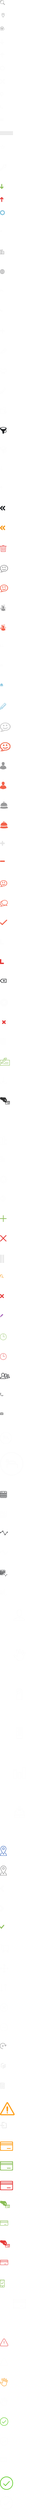
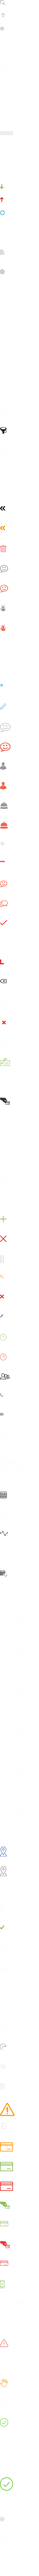
CICO-11893 - Card searcha and autocomplete results style update

diff --git a/stylesheets/less/app/05-A_components.less b/stylesheets/less/app/05-A_components.less
@@ -1297,79 +1297,87 @@
                         }
                     }
 
-                    .data {
-                        margin-right: 40px;
-                        .calc-width(100, 145);
-
-                        h2 {
-                            line-height: 50px; 
-                            vertical-align: middle; 
-                        }
-                    }
-
-                    .status { 
-                        margin-top: 10px;
+                    .rate {
+                        font-size: 20px;
+                        font-weight: 600;
+                        margin-right: 20px;
+                        .nowrap();
                         .pull-left;
-                        .hide-text;
-                        .square(30px);
-
-                        &.guest { background: @gcard @gcardTexture; }
-                        &.company { background: @ccard @ccardTexture; }
-                        &.travel-agent { background: @tacard @tacardTexture; }
+                        
+                        .label { font-weight: 400; }
                     }
 
-                    &.card-result {
-                        .data { 
-                            margin-right: 0;
-                            .calc-width(100, 70);
+                    .icon-contracts {
+                        color: @grey3;
+                        text-transform: uppercase;
+                        font-size: 13px;
+                        line-height: 20px;
+                        padding-left: 20px;
+                        width: 150px;
+                        .pull-right;
+                    }
+                }
 
-                            .info {
-                                margin-bottom: 10px;
-                                .float;
+                &.all-cards {
+                    position: relative;
 
-                                h2 {
-                                    line-height: 1em;
-                                    margin-right: 40px;
-                                    .pull-left;
-                                }
+                    .data {
+                        margin-right: 20px;
+                        .calc-width(50, 130);
 
-                                .rate { 
-                                    font-size: 24px;
-                                    line-height: 1em;
-                                    font-weight: 600;
-                                    .pull-left;
-                                    
-                                    .label { 
-                                        display: inline-block;
-                                        font-weight: 14px;
-                                        line-height: 24px;
-                                        margin: 0 10px 0 0;
-                                        font-weight: 400;
-                                    }
+                        h2 { line-height: 50px; }
+                    }
 
-                                }
-                            }
+                    .rate {
+                        line-height: 50px;
+                        .calc-width(50, 130);
+                    }
 
-                            .confirmation,
-                            .icons {
-                                display: inline;
-                                line-height: 20px;
-                                height: 20px;
-                                overflow: hidden;
+                    .icon-contracts { margin-top: 15px; }
+                }
+
+                &.card-result {
+                    .data { 
+                        .calc-width(100, 70);
+
+                        .info {
+                            margin-bottom: 10px;
+                            .float;
+
+                            h2 {
+                                line-height: 30px;
                                 margin-right: 20px;
-
-                                &:last-child { margin-right: 0; }
+                                .calc-width(50, 95);
+                                .pull-left;
                             }
 
-                            .icons {
-                                color: @grey3;
-                                padding-left: 20px;
+                            .rate {
+                                line-height: 30px;
+                                .calc-width(50, 95);
                             }
 
-                            .confirmation { 
-                                color: @textColor;
-                                font-weight: 600; 
-                            }
+                            .icon-contracts { margin-top: 5px; }
+                        }
+
+                        .confirmation,
+                        .icons {
+                            display: inline;
+                            line-height: 20px;
+                            height: 20px;
+                            overflow: hidden;
+                        }
+
+                        .icons {
+                            color: @grey3;
+                            padding-left: 20px;
+                            margin-right: 20px;
+
+                            &:last-child { margin-right: 0; }
+                        }
+
+                        .confirmation { 
+                            font-weight: 600;
+                            margin-right: 20px;
                         }
                     }
                 }
@@ -1778,7 +1786,7 @@
             position: absolute;
             top: 60px;
             left: 0;
-            z-index: 999;
+            z-index: 2040;
             .size(90px, 100%);
             .transition(height, .2s, cubic-bezier(.10, .10, .25, .90));
             .show;

diff --git a/stylesheets/less/app/05-C_plugins.less b/stylesheets/less/app/05-C_plugins.less
@@ -186,58 +186,8 @@
         }
         
         &.find-cards {
-            width: auto !important;
-        
-            li {
-                a {
-                    position: relative;
-                    padding: 10px 20px 10px 50px;
-                    font-size: 18px;
-                    line-height: 30px;
-                    font-weight: 600;
-                    color: @textColor;
-                    .show;
-
-                    .highlight { color: @logoPrimary; }
-
-                    img,
-					.icons,
-					.group-info {
-						position: absolute;
-						top: 10px;
-						left: 10px;
-						.square(30px);
-						#border-radius > .rounded();
-					}
-
-					.icons {
-						&.icon-company { 
-							background-position: 4px -3458px;
-							background-color: @ccard; 
-						}
-
-						&.icon-travel-agent { 
-							background-position: 4px -3576px;
-							background-color: @tacard; 
-						}
-					}
-
-					.group-info {
-						font-size: 18px;
-						line-height: 30px;
-						text-transform: uppercase;
-						font-weight: 600;
-						text-align: center;
-						color: @grey3;
-						width: 30px;
-						background-color: @grey1;
-					}
-                }
-            }
-        }
-
-        &.find-diary-card {
-			width: 420px;
+        	width: auto;
+			max-width: 420px !important;
 
 			li {
 				a {
@@ -251,25 +201,35 @@
 
 					.highlight { color: @logoPrimary; }
 
-					img,
-					.icons {
+					.icons,
+					.group-info,
+					img {
 						position: absolute;
 						top: 10px;
 						left: 10px;
 						.square(30px);
 						#border-radius > .rounded();
-					}
 
-					.icons {
 						&.icon-company { 
-							background-position: 4px -3458px;
+							background-position: 7px -3514px;
 							background-color: @ccard; 
 						}
 
 						&.icon-travel-agent { 
-							background-position: 4px -3576px;
+							background-position: 6px -3634px;
 							background-color: @tacard; 
 						}
+					}
+
+					.group-info {
+						font-size: 18px;
+						line-height: 30px;
+						text-transform: uppercase;
+						font-weight: 600;
+						text-align: center;
+						color: @grey3;
+						width: 30px;
+						background-color: @gcard;
 					}
 				}
 			}
@@ -314,6 +274,24 @@
 
 					&:last-child { margin-bottom: 0; }
 				}
+
+				&.wide { 
+					width: 480px; 
+
+					.actions {
+						text-align: center;
+						padding-top: 19px;
+						border-top: 1px solid rgba(0,0,0,.1);
+
+						.button {
+							display: inline-block;
+							width: auto;
+							margin: 0 10px 0 0;
+						}
+					}
+				}
+
+				&.medium { width: 380px; }
 			}
 
 			/* Confirmation modal window ***/

diff --git a/rover/partials/diary/rvDiary.html b/rover/partials/diary/rvDiary.html
@@ -100,7 +100,7 @@
                         Search
                     </button>
                     <span role="status" aria-live="polite" class="ui-helper-hidden-accessible"></span>
-                    <input auto-complete="" auto-options="autocompleteOptions" name="diary-corporate-query" id="diary-corporate-query" class="query ui-autocomplete-input" placeholder="Type Company or Travel Agent Name" type="search" ng-model="corporateSearchText" ul-class="find-diary-card" focus-me="focusOnCorporateSearchText">
+                    <input auto-complete="" auto-options="autocompleteOptions" name="diary-corporate-query" id="diary-corporate-query" class="query ui-autocomplete-input" placeholder="Type Company or Travel Agent Name" type="search" ng-model="corporateSearchText" ul-class="find-cards" focus-me="focusOnCorporateSearchText">
                 </div>                           
                          
             </div>

diff --git a/stylesheets/less/app/03_graphics.less b/stylesheets/less/app/03_graphics.less
@@ -196,7 +196,7 @@
 				}
 			}
 
-		/* Reservation - Search ***/
+		/* Search Results ***/
 			&.icon-location {  background-position: 0px -36px; }
 			&.icon-group { background-position: 0 -77px; }
 			&.icon-guest-company { background-position: 0 -758px; }
@@ -204,6 +204,7 @@
 
 			&.icon-phone { background-position: 3px -4234px; }
 			&.icon-email-grey { background-position: 2px -4293px; }
+			&.icon-contracts { background-position: 0 -7658px; }
 
 			&.icon-gc-location { background-position: 10px -269px; }
 			&.icon-gc-phone { background-position: 10px -308px; }
